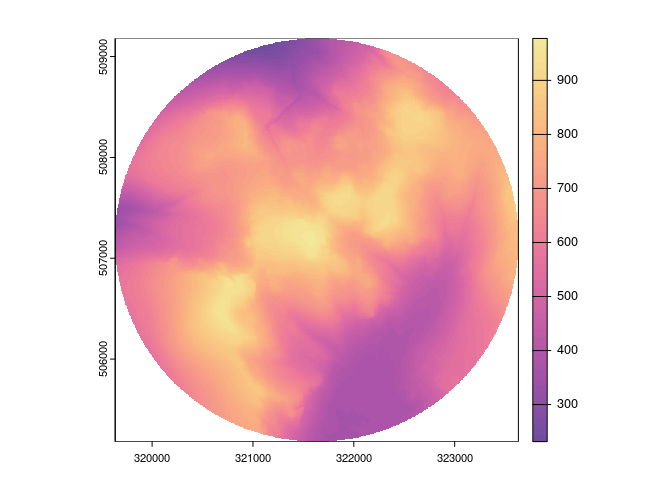
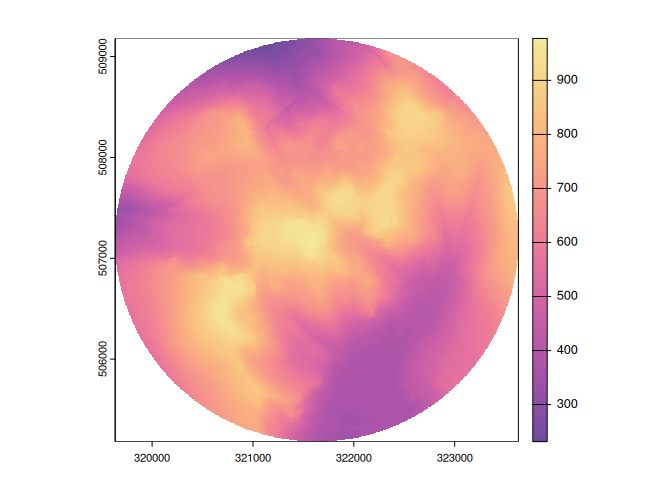
trying to get through checks

diff --git a/README.md b/README.md
@@ -10,7 +10,7 @@ experimental](https://img.shields.io/badge/lifecycle-experimental-orange.svg)](h
 <!-- badges: end -->
 
 gblidar aims to make accessing LiDAR data from across Great Britain as
-easy as possible. It provides functions to search the Environment
+easy as possible. It provides functions to searc\>h the Environment
 Agency’s LiDAR catalogue, download composite products, and merge the
 data into a single raster. It also provides functions to access the data
 from the EA’s WCS services, which is significantly faster but only
@@ -20,14 +20,14 @@ to include Scotland and Wales in the future.
 
 # To Do List:
 
-  - [x] Added options for merging rasters and exporting as SpatRaster,
-    stars of character.
-  - [x] Generic merge for all rasters in gbl\_catalog.
-  - [x] Add special functions for hitting the WCS data to get faster
-    access to large composite areas.
-  - [ ] Add Scottish Data
-  - [ ] Add Welsh Data
-  - [ ] Write Tests
+- [x] Added options for merging rasters and exporting as SpatRaster,
+  stars of character.
+- [x] Generic merge for all rasters in gbl_catalog.
+- [x] Add special functions for hitting the WCS data to get faster
+  access to large composite areas.
+- [ ] Add Scottish Data
+- [ ] Add Welsh Data
+- [ ] Write Tests
 
 ## Installation
 
@@ -57,12 +57,15 @@ below).
 ``` r
 library(gblidar)
 library(sf)
-#> Linking to GEOS 3.12.1, GDAL 3.8.3, PROJ 9.3.1; sf_use_s2() is TRUE
+#> Linking to GEOS 3.12.2, GDAL 3.8.4, PROJ 9.3.1; sf_use_s2() is TRUE
+#> WARNING: different compile-time and runtime versions for GEOS found:
+#> Linked against: 3.12.2-CAPI-1.18.2 compiled against: 3.12.1-CAPI-1.18.1
+#> It is probably a good idea to reinstall sf (and maybe lwgeom too)
 if (rlang::is_installed("terra")) {
   library(terra)
   options(gblidar.out_raster_type = "SpatRaster")
 }
-#> terra 1.7.71
+#> terra 1.8.0
 
 scafell_box <- st_point(c(321633, 507181)) |>
   st_buffer(2000) |>
@@ -72,7 +75,8 @@ scafell_box <- st_point(c(321633, 507181)) |>
 scafell_catalog <- eng_search(scafell_box)
 
 print(scafell_catalog)
-#> Data Catalog
+#> 
+#> ── < gbl_catalog > ─────────────────────────────────────────────────────────────
 #> # A tibble: 28 × 5
 #>    product                                   resolution  year filenames urls  
 #>    <chr>                                          <dbl> <int> <list>    <list>
@@ -103,15 +107,13 @@ print(scafell_catalog)
 #> 25 National LIDAR Programme Point Cloud               1  2019 <chr [7]> <chr> 
 #> 26 National LIDAR Programme Point Cloud               1  2021 <chr [2]> <chr> 
 #> 27 National LIDAR Programme VOM                       1  2019 <chr [7]> <chr> 
-#> 28 National LIDAR Programme VOM                       1  2021 <chr [2]> <chr>
-#> AOI Geometry
+#> 28 National LIDAR Programme VOM                       1  2021 <chr [2]> <chr> 
 #> Geometry set for 1 feature 
 #> Geometry type: POLYGON
 #> Dimension:     XY
 #> Bounding box:  xmin: 319633 ymin: 505181 xmax: 323633 ymax: 509181
 #> Projected CRS: OSGB36 / British National Grid
 #> POLYGON ((323633 507181, 323630.3 507076.3, 323...
-#> Tile Names
 #> [1] "NY10NE" "NY20NW"
 
 DTM_catalog <- scafell_catalog |>
@@ -122,19 +124,18 @@ DTM_catalog <- scafell_catalog |>
   )
 
 print(DTM_catalog)
-#> Data Catalog
+#> 
+#> ── < gbl_catalog > ─────────────────────────────────────────────────────────────
 #> # A tibble: 1 × 5
 #>   product             resolution  year filenames urls     
 #>   <chr>                    <dbl> <int> <list>    <list>   
 #> 1 LIDAR Composite DTM          2  2022 <chr [9]> <chr [9]>
-#> AOI Geometry
 #> Geometry set for 1 feature 
 #> Geometry type: POLYGON
 #> Dimension:     XY
 #> Bounding box:  xmin: 319633 ymin: 505181 xmax: 323633 ymax: 509181
 #> Projected CRS: OSGB36 / British National Grid
 #> POLYGON ((323633 507181, 323630.3 507076.3, 323...
-#> Tile Names
 #> [1] "NY10NE" "NY20NW"
 
 scafell_raster <- merge_assets(DTM_catalog, mask = TRUE)
@@ -145,12 +146,12 @@ plot(scafell_raster, col = grDevices::hcl.colors(50, palette = "Sunset"))
 <img src="man/figures/README-example-1.png" width="100%" />
 
 The EA have now released their latest composite products as WCS services
-(Awesome\!). To make best use of this, we provide the `eng_composite`
+(Awesome!). To make best use of this, we provide the `eng_composite`
 function which can be used to directly download only the data you need
 for any area in England. This is significantly faster than the
 `eng_search` function and is preferred if you are only interested in the
 latest composite products. Both elevation and hillshade data are
-available for “fz\_dsm” (first return DSM), “dsm”, “dtm”, and “vom”.
+available for “fz_dsm” (first return DSM), “dsm”, “dtm”, and “vom”.
 
 ``` r
 options(gblidar.progress = FALSE) # for readability in this example.
